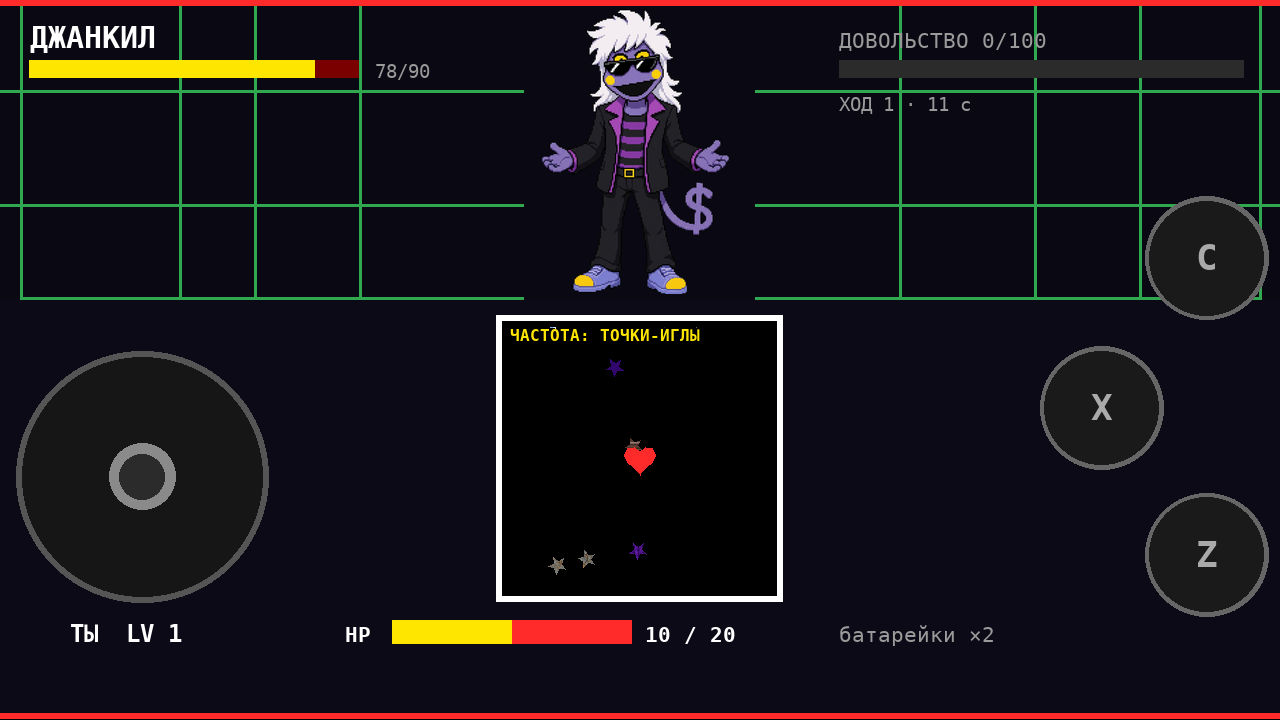
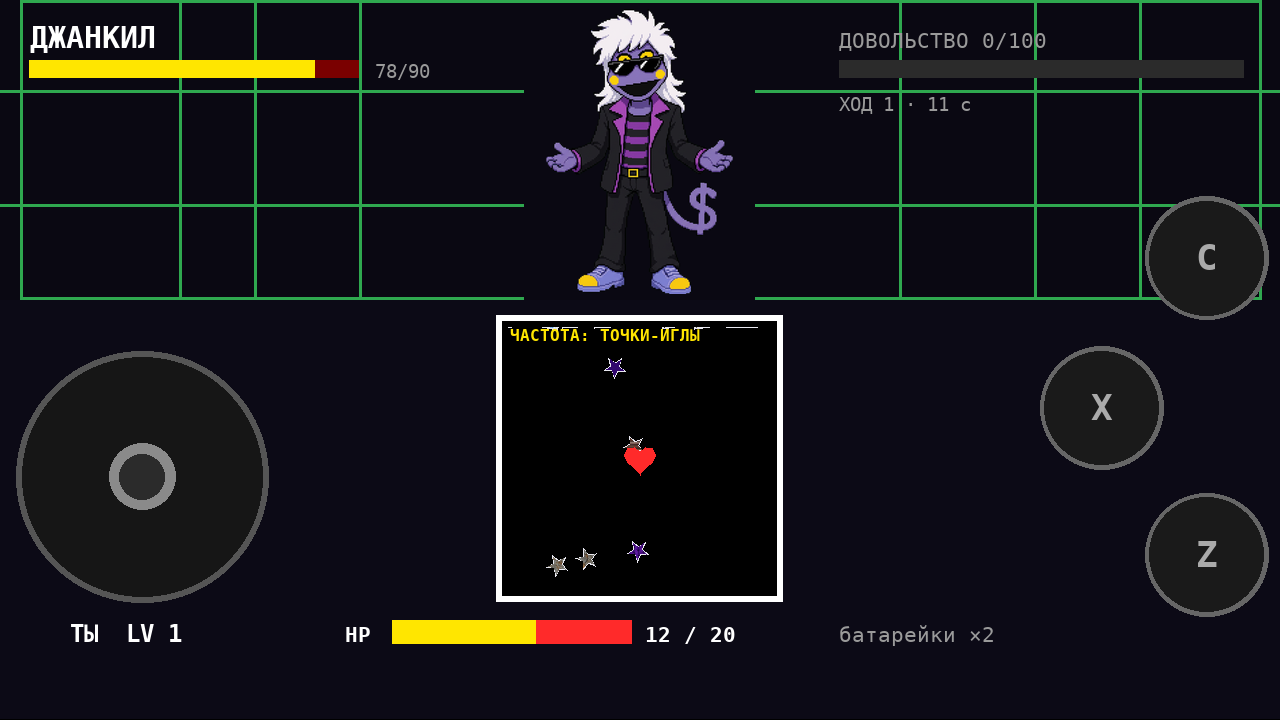
Джанкил v2.0: светлый контур у снарядов, честнее хитбокс, регрессия на обрезку арены, пересборка APK

diff --git a/junkil-battle/test/harness/com/example/junkil/UiCheck.java b/junkil-battle/test/harness/com/example/junkil/UiCheck.java
@@ -144,6 +144,18 @@ public final class UiCheck {
         eq("арена после текста", BattleLogic.Phase.ARENA, e.logic().phase);
         e.advance(1.5f);
         check("на арене есть предметы", e.view.sim.items.size() > 0 || e.view.sim.spawned > 0);
+        // регрессия: обрезка арены должна быть в тех же координатах, что и фигуры (иначе снаряды невидимы)
+        boolean clipFound = false;
+        for (String line : e.shot().split("\n")) {
+            if (!line.startsWith("C ")) continue;
+            String[] p = line.split(" ");
+            float l = Float.parseFloat(p[1]), t = Float.parseFloat(p[2]);
+            float r = Float.parseFloat(p[3]), b = Float.parseFloat(p[4]);
+            clipFound = true;
+            check("обрезка арены шире 20% экрана (" + (r - l) + " px)", r - l > 0.2f * Env.W);
+            check("обрезка арены внутри экрана", l > 0 && t > 0 && r < Env.W && b < Env.H);
+        }
+        check("обрезка арены есть в кадре", clipFound);
         check("звук атаки (whoosh) играл", e.sounds.count("whoosh") > 0);
 
         // Урон сразу: фигура попадает в сердце — ХП игрока меняется в тот же кадр, арена не кончается

diff --git a/junkil-battle/src/com/example/junkil/BattleView.java b/junkil-battle/src/com/example/junkil/BattleView.java
@@ -463,6 +463,8 @@ final class BattleView extends View {
                     rect(c, px - 6, py - 2, px + 6, py + 2, TEXT);
                     break;
                 default:
+                    // светлый контур под текстурой: тёмные текстуры не сливаются с чёрным полем
+                    drawShape(c, ArenaSim.polygon(it.kind), px, py, it.r + 1.5f, it.rot, -1, 0xFFE8E8F0);
                     drawShape(c, ArenaSim.polygon(it.kind), px, py, it.r, it.rot, it.tex, RED);
                     break;
             }

diff --git a/junkil-battle/src/com/example/junkil/ArenaSim.java b/junkil-battle/src/com/example/junkil/ArenaSim.java
@@ -287,7 +287,7 @@ final class ArenaSim {
                 if (it.y > H - it.r) { it.y = H - it.r; it.vy = -Math.abs(it.vy); }
             }
             if (it.life >= 0) it.life -= dt;
-            if (!it.hit && dist(it.x, it.y, heartX, heartY) < it.r * 0.8f + HEART / 2f - 1f) {
+            if (!it.hit && dist(it.x, it.y, heartX, heartY) < it.r * 0.6f + HEART / 2f - 2f) {
                 it.hit = true;
                 hits++;
                 newHits++;
